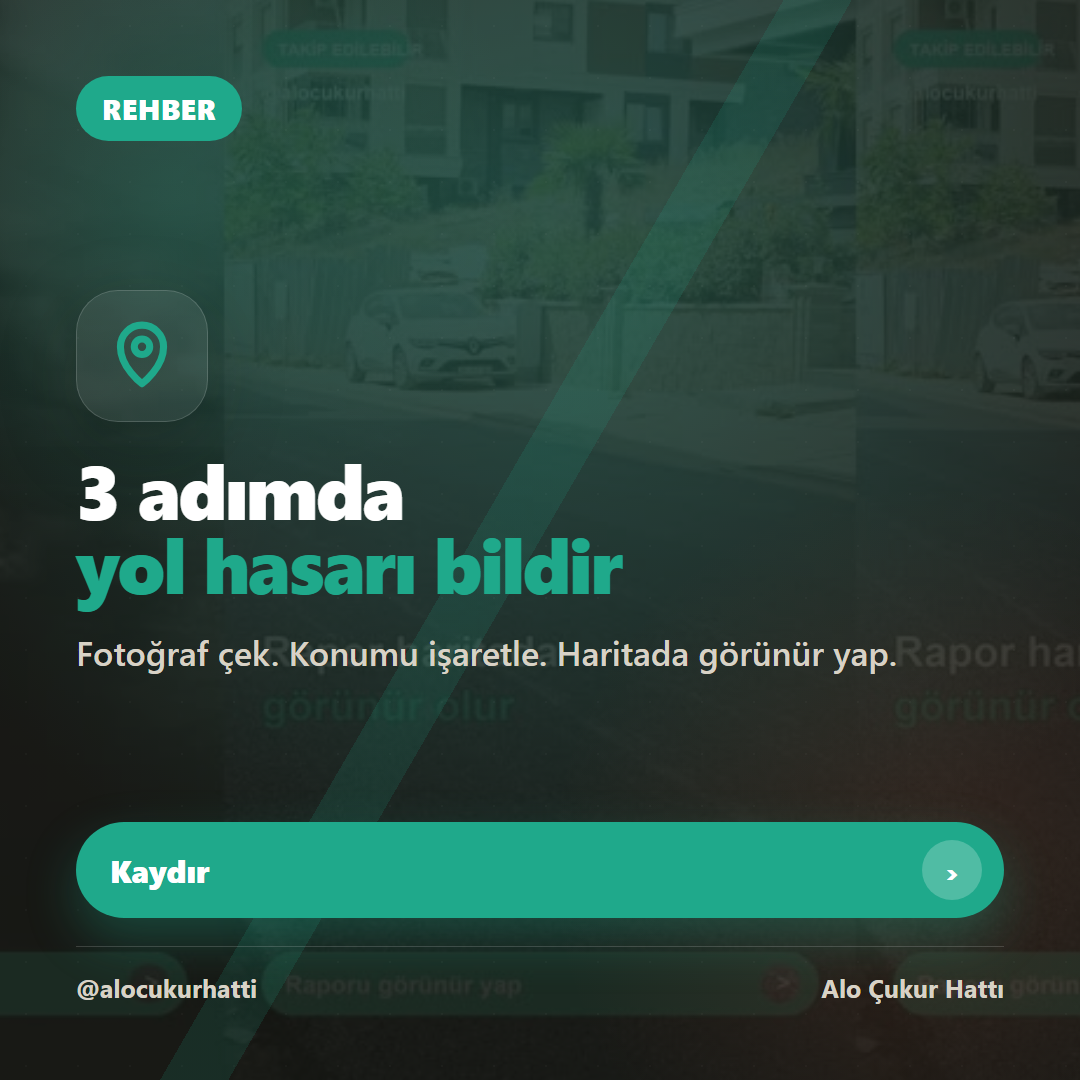
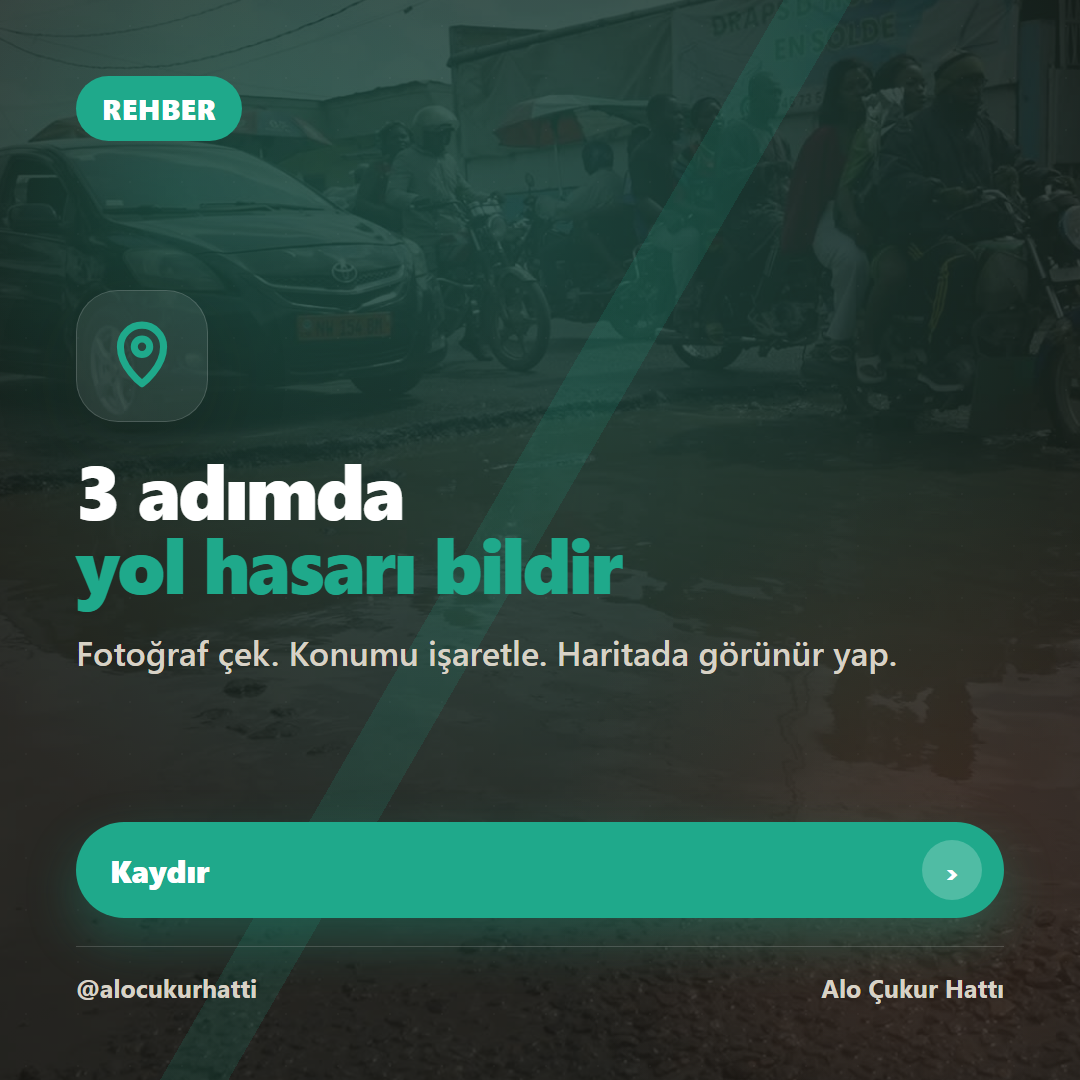
assets: vary carousel backgrounds by slide

diff --git a/sosyalmedya/create_first_5_assets.py b/sosyalmedya/create_first_5_assets.py
@@ -9,12 +9,23 @@ Alo Çukur Hattı - İlk 5 sosyal medya içeriği görsel üretici.
 - X paylaşım kartı: 1600x900
 """
 from pathlib import Path
+import shutil
+import subprocess
 from playwright.sync_api import sync_playwright
 
 BASE = Path(__file__).resolve().parent
 OUT = BASE / "ready_content" / "ilk_5"
 TMP = BASE / "_tmp_first_5.html"
-CAROUSEL_BG = BASE / "moneyprinter_pexels_reels" / "outputs" / "reels_01_pexels_lansman_contact.jpg"
+PEXELS_ASSETS = BASE / "moneyprinter_pexels_reels" / "assets"
+BG_DIR = OUT / "_shared" / "carousel_backgrounds"
+CAROUSEL_BG_SOURCES = {
+    "cover": PEXELS_ASSETS / "02_profesyonel_30_saniye" / "pexels_02_34218230.mp4",
+    "photo": PEXELS_ASSETS / "02_profesyonel_30_saniye" / "pexels_03_35988850.mp4",
+    "location": PEXELS_ASSETS / "02_profesyonel_30_saniye" / "pexels_04_4546864.mp4",
+    "follow": PEXELS_ASSETS / "02_profesyonel_30_saniye" / "pexels_05_855956.mp4",
+    "cta": PEXELS_ASSETS / "01_profesyonel_lansman" / "pexels_05_6082942.mp4",
+}
+CAROUSEL_BG_FALLBACK = BASE / "moneyprinter_pexels_reels" / "outputs" / "reels_01_pexels_lansman_contact.jpg"
 
 PALETTE = {
     "canvas": "#FBF9F4",
@@ -32,6 +43,43 @@ PALETTE = {
     "warning": "#E0A23B",
     "white": "#FFFFFF",
 }
+
+
+def ensure_carousel_backgrounds():
+    BG_DIR.mkdir(parents=True, exist_ok=True)
+    ffmpeg = shutil.which("ffmpeg")
+    generated = {}
+    for key, source in CAROUSEL_BG_SOURCES.items():
+        target = BG_DIR / f"{key}.jpg"
+        generated[key] = target
+        if target.exists():
+            continue
+        if not ffmpeg or not source.exists():
+            if CAROUSEL_BG_FALLBACK.exists():
+                shutil.copy2(CAROUSEL_BG_FALLBACK, target)
+            continue
+        subprocess.run(
+            [
+                ffmpeg,
+                "-y",
+                "-ss",
+                "00:00:02",
+                "-i",
+                str(source),
+                "-frames:v",
+                "1",
+                "-update",
+                "1",
+                str(target),
+            ],
+            check=True,
+            stdout=subprocess.DEVNULL,
+            stderr=subprocess.DEVNULL,
+        )
+    return generated
+
+
+CAROUSEL_BGS = {}
 
 
 def shell(title, eyebrow, body, cta="", icon="pin", dark=False, meta="@alocukurhatti", size="vertical", bg_image=""):
@@ -63,8 +111,8 @@ def shell(title, eyebrow, body, cta="", icon="pin", dark=False, meta="@alocukurh
     sub = "#D8D2C6" if dark else PALETTE["body"]
     card = "rgba(255,255,255,0.08)" if dark else "rgba(255,255,255,0.55)"
     border = "rgba(255,255,255,0.16)" if dark else "rgba(27,26,22,0.08)"
-    photo_opacity = 0.22 if dark else 0.18
-    photo_overlay = "rgba(8,20,17,0.48)" if dark else "rgba(251,249,244,0.76)"
+    photo_opacity = 0.24 if dark else 0.28
+    photo_overlay = "rgba(8,20,17,0.46)" if dark else "rgba(251,249,244,0.66)"
     photo_bg = (
         f"""
           .photo-bg {{
@@ -263,8 +311,9 @@ def vertical(page, folder, name, title, eyebrow, body, cta="", icon="pin", dark=
     render(page, html, OUT / folder / name, 1080, 1920)
 
 
-def square(page, folder, name, title, eyebrow, body, cta="", icon="pin", dark=False):
-    bg_image = CAROUSEL_BG.resolve().as_uri() if CAROUSEL_BG.exists() else ""
+def square(page, folder, name, title, eyebrow, body, cta="", icon="pin", dark=False, bg_key="cover"):
+    bg_path = CAROUSEL_BGS.get(bg_key) or CAROUSEL_BGS.get("cover")
+    bg_image = bg_path.resolve().as_uri() if bg_path and bg_path.exists() else ""
     html = shell(title, eyebrow, body, cta, icon, dark, size="square", bg_image=bg_image)
     render(page, html, OUT / folder / name, 1080, 1080)
 
@@ -275,7 +324,9 @@ def wide(page, folder, name, title, eyebrow, body, cta="", icon="pin", dark=Fals
 
 
 def main():
+    global CAROUSEL_BGS
     OUT.mkdir(parents=True, exist_ok=True)
+    CAROUSEL_BGS = ensure_carousel_backgrounds()
     with sync_playwright() as p:
         browser = p.chromium.launch()
         page = browser.new_page()
@@ -289,11 +340,11 @@ def main():
         vertical(page, "01_reels_lansman", "storyboard_05.png", "Bugün ilk raporunu<br><span>bildir</span>", "CTA", "Ücretsiz kullan. Anonim bildirim yapabilirsin.", "Hemen indir", "phone", True)
 
         # 2. Gün - Carousel
-        square(page, "02_carousel_3_adim", "slide_01.png", "3 adımda<br><span>yol hasarı bildir</span>", "REHBER", "Fotoğraf çek. Konumu işaretle. Haritada görünür yap.", "Kaydır", "pin", True)
-        square(page, "02_carousel_3_adim", "slide_02.png", "1. Fotoğraf çek", "ADIM 1", "Çukurun veya yol hasarının net göründüğü bir fotoğraf ekle.", "", "camera")
-        square(page, "02_carousel_3_adim", "slide_03.png", "2. Konumu işaretle", "ADIM 2", "Uygulama konumunu otomatik alır. İstersen haritadan manuel düzeltebilirsin.", "", "map")
-        square(page, "02_carousel_3_adim", "slide_04.png", "3. Gönder ve<br><span>takip et</span>", "ADIM 3", "Rapor haritada görünür olur. Aynı sorunu görenler Ben de Gördüm diyebilir.", "", "bell")
-        square(page, "02_carousel_3_adim", "slide_05.png", "İlk pin<br><span>senden gelsin</span>", "CTA", "Alo Çukur Hattı ücretsiz bir vatandaş uygulamasıdır.", "Ücretsiz indir", "phone", True)
+        square(page, "02_carousel_3_adim", "slide_01.png", "3 adımda<br><span>yol hasarı bildir</span>", "REHBER", "Fotoğraf çek. Konumu işaretle. Haritada görünür yap.", "Kaydır", "pin", True, "cover")
+        square(page, "02_carousel_3_adim", "slide_02.png", "1. Fotoğraf çek", "ADIM 1", "Çukurun veya yol hasarının net göründüğü bir fotoğraf ekle.", "", "camera", False, "photo")
+        square(page, "02_carousel_3_adim", "slide_03.png", "2. Konumu işaretle", "ADIM 2", "Uygulama konumunu otomatik alır. İstersen haritadan manuel düzeltebilirsin.", "", "map", False, "location")
+        square(page, "02_carousel_3_adim", "slide_04.png", "3. Gönder ve<br><span>takip et</span>", "ADIM 3", "Rapor haritada görünür olur. Aynı sorunu görenler Ben de Gördüm diyebilir.", "", "bell", False, "follow")
+        square(page, "02_carousel_3_adim", "slide_05.png", "İlk pin<br><span>senden gelsin</span>", "CTA", "Alo Çukur Hattı ücretsiz bir vatandaş uygulamasıdır.", "Ücretsiz indir", "phone", True, "cta")
 
         # 3. Gün - Story anket serisi
         vertical(page, "03_story_anket", "story_01.png", "Mahallende<br><span>yol hasarı var mı?</span>", "ANKET", "Var / Yok gibi", "Cevapla", "warning")

diff --git a/sosyalmedya/README.md b/sosyalmedya/README.md
@@ -15,7 +15,7 @@ Yeni ana strateji `sosyal_medya_plani_2026.md` dosyasındadır. Eski carousel se
 - Reels/TikTok ana formatı artık **MoneyPrinter + Pexels stok video + Türkçe seslendirme + Alo Çukur Hattı marka katmanı** olacak.
 - Önceden yazılmış veya paylaşılacak tüm Reels fikirleri carousel/storyboard görsellerinden video yapılmayacak; önce Pexels'ten konuya yakın gerçek görüntüler bulunacak, sonra bu profesyonel formata dönüştürülecek.
 - Pexels aramalarında öncelik: yol çukuru, bozuk asfalt, çatlak zemin, asfalt onarımı, trafik, telefon/harita kullanımı ve şehir yolu sahneleri.
-- Carousel görsellerinde düz arka plan tek başına kullanılmayacak. Okunabilirliği bozmayan düşük opaklıklı yol/şehir görsel katmanı, yumuşak renk filtresi ve marka CTA yapısı korunacak.
+- Carousel görsellerinde düz arka plan tek başına kullanılmayacak. Her slaytta kendi mesajıyla eşleşen farklı düşük opaklıklı görsel kullanılacak: fotoğraf adımında hasar/çatlak, konum adımında harita/telefon, takip adımında onarım/yol sahnesi gibi.
 
 Güncel profesyonel Reels örnekleri: `moneyprinter_pexels_reels/outputs/`
 
